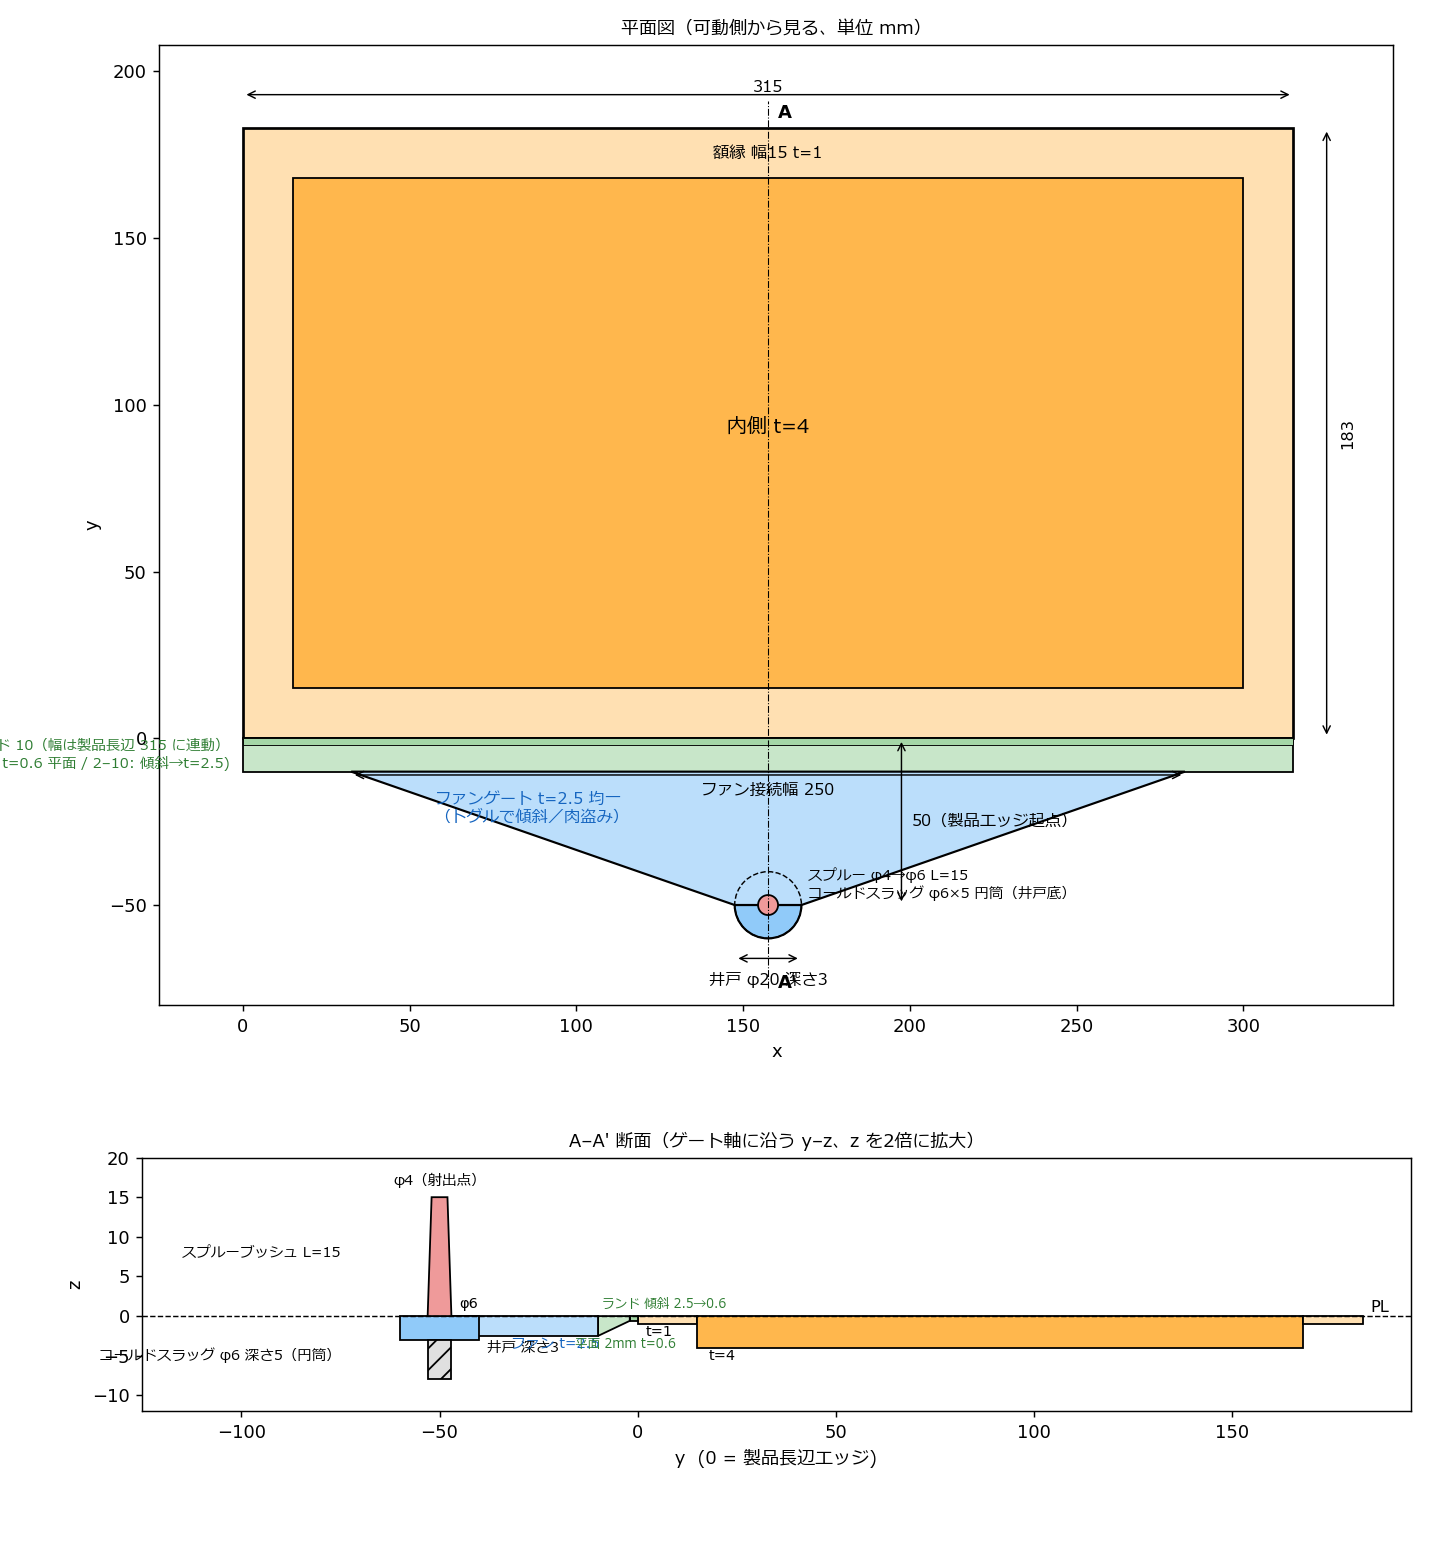
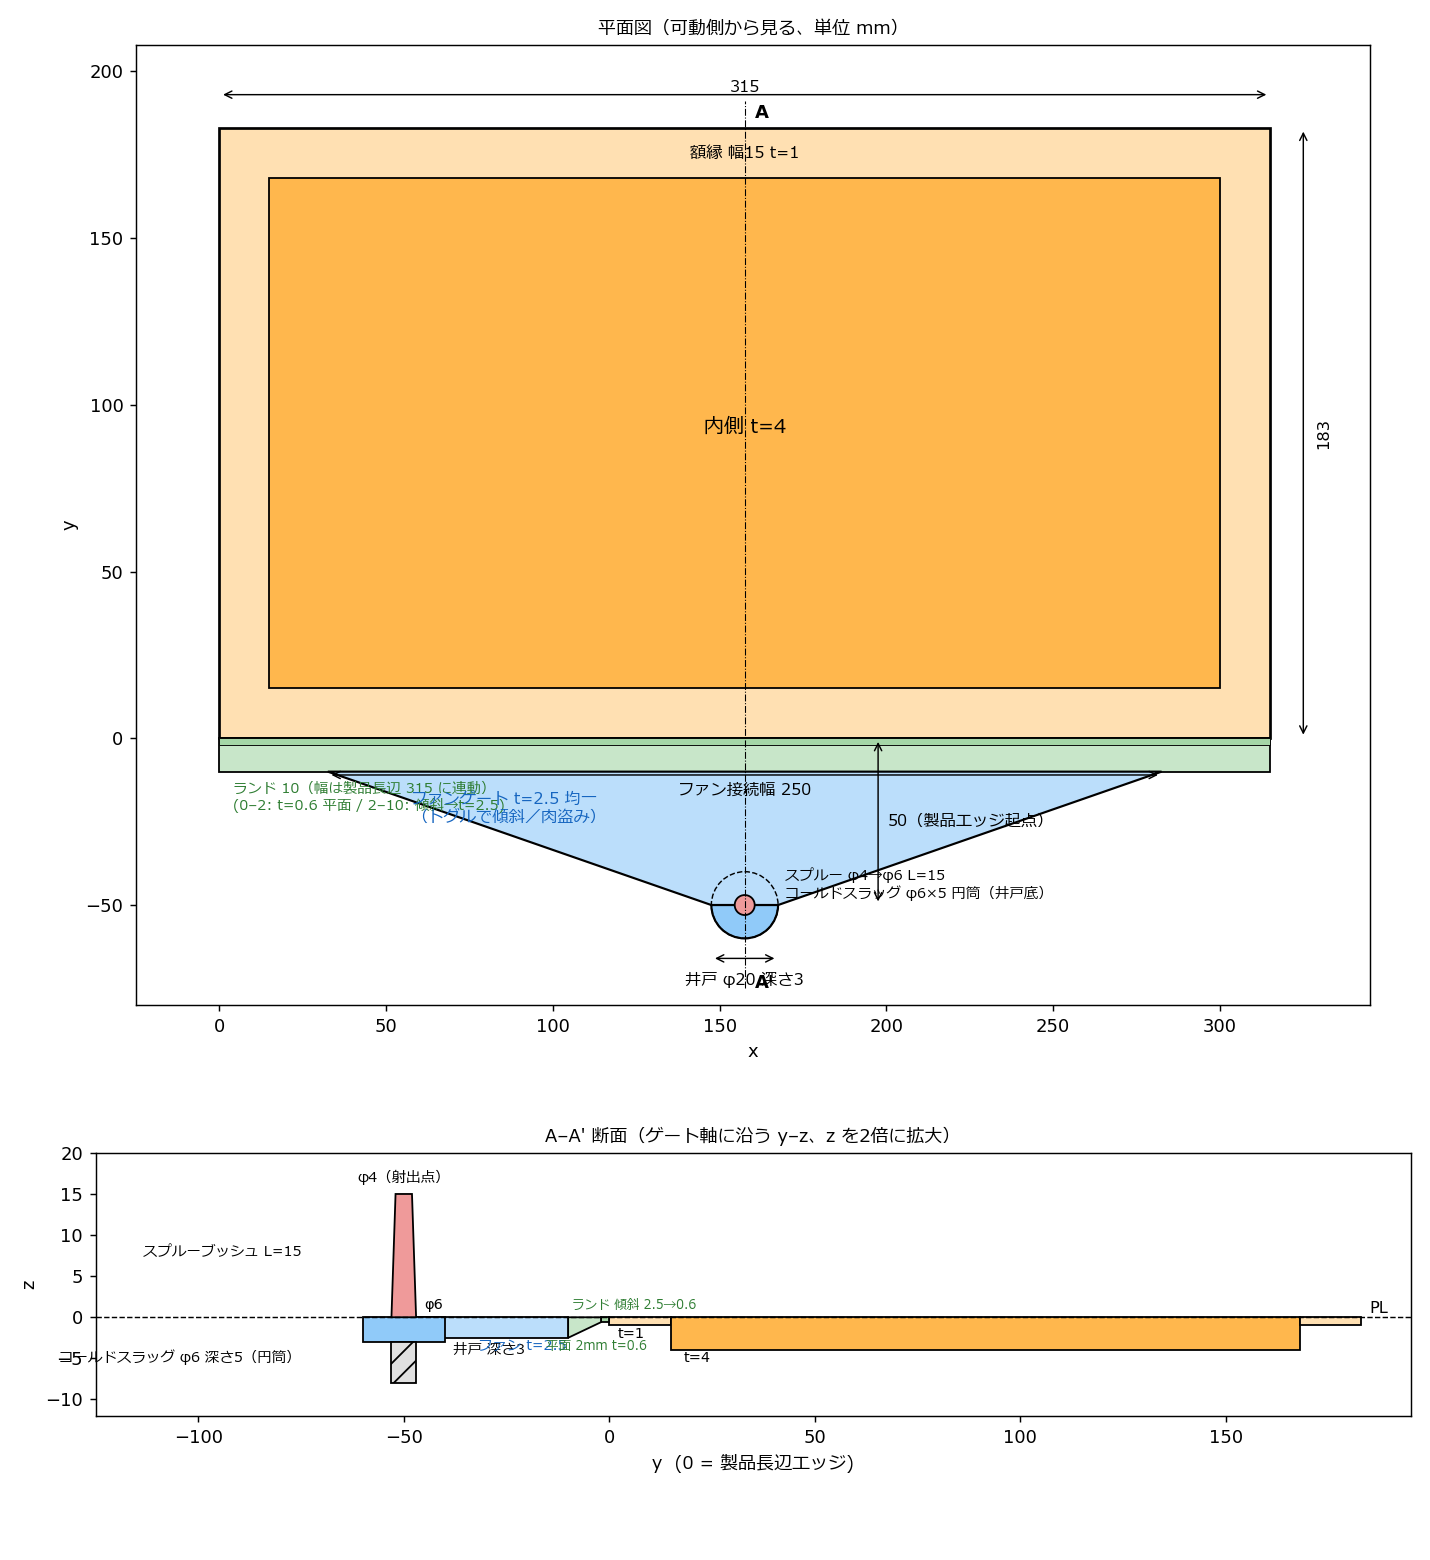
docs(draft): ランド注記の位置調整

diff --git a/docs/draft/geometry_draft.py b/docs/draft/geometry_draft.py
@@ -44,8 +44,8 @@ dim(ax, (0, PH + 10), (PW, PH + 10), f"{PW:g}")
 ax.annotate("", (PW + 10, 0), (PW + 10, PH), arrowprops=dict(arrowstyle="<->", lw=0.8))
 ax.text(PW + 14, PH / 2, f"{PH:g}", va="center", fontsize=9, rotation=90)
 dim(ax, (cx - FAN_W / 2, -LAND_L - 1), (cx + FAN_W / 2, -LAND_L - 1), f"ファン接続幅 {FAN_W:g}", off=-7)
-ax.text(-4, -LAND_L / 2, f"ランド {LAND_L:g}（幅は製品長辺 {LAND_W:g} に連動）\n(0–{LAND_FLAT_L:g}: t={T_LAND_FLAT:g} 平面 / {LAND_FLAT_L:g}–{LAND_L:g}: 傾斜→t={T_LAND_END:g})",
-        ha="right", va="center", fontsize=8, fontproperties=JP, color="#2e7d32")
+ax.text(4, -LAND_L - 3, f"ランド {LAND_L:g}（幅は製品長辺 {LAND_W:g} に連動）\n(0–{LAND_FLAT_L:g}: t={T_LAND_FLAT:g} 平面 / {LAND_FLAT_L:g}–{LAND_L:g}: 傾斜→t={T_LAND_END:g})",
+        ha="left", va="top", fontsize=8, fontproperties=JP, color="#2e7d32")
 ax.annotate("", (cx + 40, 0), (cx + 40, -GATE_OFF), arrowprops=dict(arrowstyle="<->", lw=0.8))
 ax.text(cx + 43, -GATE_OFF / 2, f"{GATE_OFF:g}（製品エッジ起点）", va="center", fontsize=9, fontproperties=JP)
 dim(ax, (cx - WELL_D / 2, -GATE_OFF - 16), (cx + WELL_D / 2, -GATE_OFF - 16), f"井戸 φ{WELL_D:g} 深さ{WELL_DEPTH:g}", off=-9)
